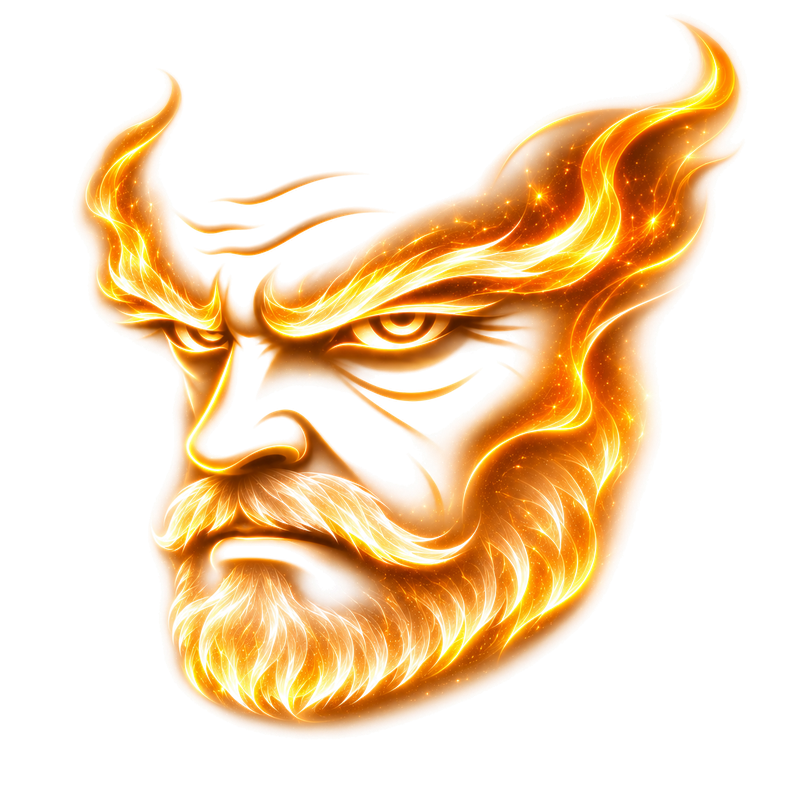
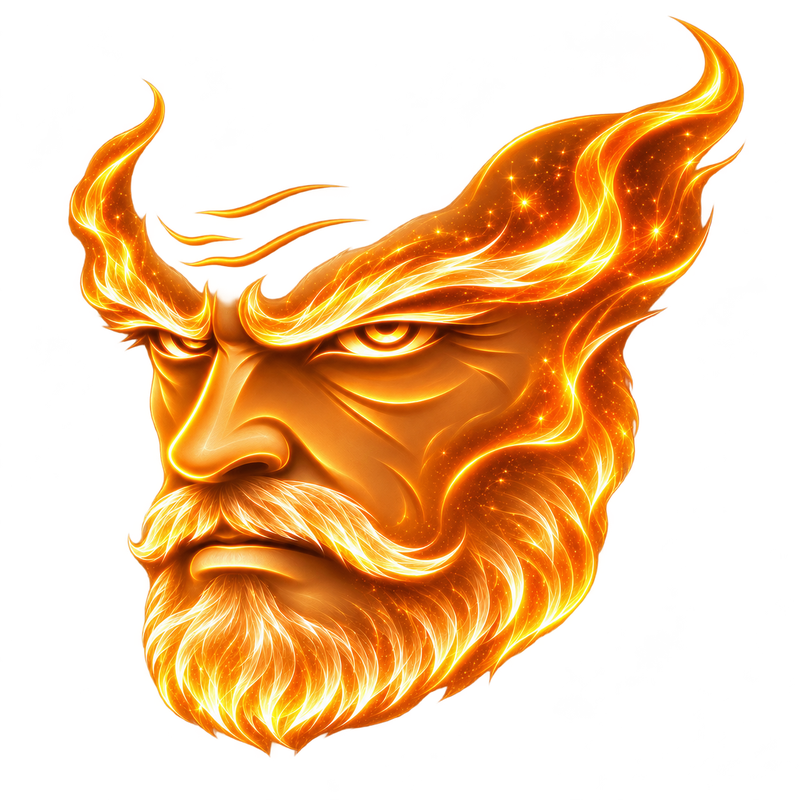
Energia das IAs no servidor, animação de ejetar e rostos novos
- Cada IA circula pelo rack como um ponto de energia na cor dela; ao
  escolher, a energia voa até a gaveta, que acende e desliza para fora.
- Ejetar: o rosto é puxado para fora da tela do celular (DESCONECTANDO), o
  celular volta ao branco de baixo para cima, a caixa do nome e os sistemas
  se apagam, a janela volta do celular e a energia entra de novo na gaveta,
  que se fecha. Só então o chip sai do leitor. Trocar de chip faz o mesmo.
- Novas imagens do Seu Adenor e da Nicole (rostos preenchidos).

Claude-Session: https://claude.ai/code/session_01QWHZ5vtpY8A6CS1fDh6wqf

diff --git a/js/holograma.js b/js/holograma.js
@@ -316,6 +316,84 @@ export async function criarServidor(canvasGL, canvas2D) {
     gavetas.push({ grupo, leds, faixa, y, fase: Math.random() * 10 });
   }
 
+  // --- as IAs em forma de energia, circulando por dentro do rack ---
+  const texturaPonto = (() => {
+    const c = document.createElement('canvas');
+    c.width = c.height = 64;
+    const g = c.getContext('2d');
+    const r = g.createRadialGradient(32, 32, 0, 32, 32, 32);
+    r.addColorStop(0, 'rgba(255,255,255,1)');
+    r.addColorStop(0.25, 'rgba(255,255,255,0.55)');
+    r.addColorStop(1, 'rgba(255,255,255,0)');
+    g.fillStyle = r;
+    g.fillRect(0, 0, 64, 64);
+    return new THREE.CanvasTexture(c);
+  })();
+  const gavetaDaIA = (i) => Math.min(UNIDADES - 1, 1 + i * 3);
+  const frenteDaGaveta = (i) => new THREE.Vector3(0, gavetas[gavetaDaIA(i)].y, D / 2 + 0.02);
+  const TAM_RASTRO = 60;
+  const energias = (window.IAS || []).map((ia, i) => {
+    const cor = new THREE.Color(ia.cor || '#3fd0ff');
+    const pts = [];
+    const n = 10;
+    for (let k = 0; k < n; k++) {
+      const a = (k / n) * Math.PI * 2 + i * 2.1;
+      pts.push(new THREE.Vector3(
+        Math.cos(a) * (0.34 + 0.1 * Math.sin(k * 2.3 + i * 1.3)),
+        Math.sin(a * 2 + i * 1.9) * (H / 2 - 0.32) * (0.55 + 0.45 * Math.cos(k * 1.7 + i)),
+        Math.sin(a) * 0.3 + 0.08 * Math.cos(k * 3 + i),
+      ));
+    }
+    const curva = new THREE.CatmullRomCurve3(pts, true, 'catmullrom', 0.5);
+    const cabeca = new THREE.Sprite(new THREE.SpriteMaterial({
+      map: texturaPonto, color: cor, transparent: true, blending: THREE.AdditiveBlending, depthWrite: false, depthTest: false,
+    }));
+    cabeca.scale.setScalar(0.2);
+    const geo = new THREE.BufferGeometry();
+    geo.setAttribute('position', new THREE.BufferAttribute(new Float32Array(TAM_RASTRO * 3), 3));
+    geo.setAttribute('color', new THREE.BufferAttribute(new Float32Array(TAM_RASTRO * 3), 3));
+    const rastro3d = new THREE.Points(geo, new THREE.PointsMaterial({
+      size: 0.17, map: texturaPonto, vertexColors: true, transparent: true,
+      blending: THREE.AdditiveBlending, depthWrite: false, depthTest: false, sizeAttenuation: true,
+    }));
+    rastro3d.frustumCulled = false;
+    rack.add(cabeca, rastro3d);
+    return { cor, curva, cabeca, rastro3d, historico: [], u: Math.random(), vel: 0.055 + 0.012 * i, alfa: 1, alfaAlvo: 1, voo: null };
+  });
+
+  // move cada energia: pelo caminho dela ou num voo até um ponto (ex.: a gaveta)
+  function moverEnergias(dt, seg) {
+    const agora = performance.now();
+    for (const e of energias) {
+      let p;
+      if (e.voo) {
+        const k = Math.min(1, (agora - e.voo.inicio) / e.voo.dur);
+        const q = k < 0.5 ? 2 * k * k : 1 - Math.pow(-2 * k + 2, 2) / 2;
+        p = e.voo.de.clone().lerp(e.voo.para, q);
+        p.y += Math.sin(k * Math.PI) * 0.25;
+        p.x += Math.sin(k * Math.PI * 2) * 0.12;
+      } else {
+        e.u = (e.u + e.vel * dt) % 1;
+        p = e.curva.getPointAt(e.u);
+      }
+      e.alfa += (e.alfaAlvo - e.alfa) * Math.min(1, dt * 5);
+      e.cabeca.position.copy(p);
+      e.cabeca.material.opacity = e.alfa;
+      e.cabeca.scale.setScalar(0.3 + 0.06 * Math.sin(seg * 6 + e.vel * 100));
+      e.historico.unshift(p.clone());
+      if (e.historico.length > TAM_RASTRO) e.historico.length = TAM_RASTRO;
+      const pos = e.rastro3d.geometry.attributes.position, cor = e.rastro3d.geometry.attributes.color;
+      for (let k = 0; k < TAM_RASTRO; k++) {
+        const h = e.historico[Math.min(k, e.historico.length - 1)];
+        pos.setXYZ(k, h.x, h.y, h.z);
+        const f = Math.pow(1 - k / TAM_RASTRO, 1.6) * e.alfa;
+        cor.setXYZ(k, e.cor.r * f, e.cor.g * f, e.cor.b * f);
+      }
+      pos.needsUpdate = true;
+      cor.needsUpdate = true;
+    }
+  }
+
   // --- base de projeção ---
   const base = new THREE.Group();
   const matBase = materialLinhas({ ...uniLinhas, uOpacidade: { value: 0.3 } });
@@ -455,7 +533,8 @@ export async function criarServidor(canvasGL, canvas2D) {
 
   let modo = 'vazio';
   let inicio = 0;
-  let escolhida = -1;
+  let escolhida = -1;      // gaveta da IA escolhida
+  let iaEscolhida = -1;    // índice da IA (e da energia dela)
   let aoTerminar = null;
   let anterior = performance.now();
 
@@ -472,6 +551,9 @@ export async function criarServidor(canvasGL, canvas2D) {
     });
   }
 
+  const FORA = 0.55;   // quanto a gaveta desliza para fora
+  const fechada = D / 2 - 0.04;
+
   function quadro(agora) {
     requestAnimationFrame(quadro);
     const dt = Math.min(0.05, (agora - anterior) / 1000);
@@ -486,7 +568,9 @@ export async function criarServidor(canvasGL, canvas2D) {
       grupo.rotation.set(0, 0.55 + Math.sin(seg * 0.5) * 0.35, 0);
       grupo.position.x = 0;
       uniLinhas.uAlfa.value = 1; uniMiolo.uAlfa.value = 0.8;
-      gavetas.forEach((g) => { g.grupo.position.z = D / 2 - 0.04; });
+      gavetas.forEach((g) => { g.grupo.position.z = fechada; });
+      energias.forEach((e) => { e.alfaAlvo = 1; });
+      moverEnergias(dt, seg);
       luzes(seg, 0);
       base.rotation.y = seg * 0.3;
       comp.render();
@@ -494,27 +578,33 @@ export async function criarServidor(canvasGL, canvas2D) {
     }
 
     if (modo === 'transformando') {
-      // 1) o rack vira de frente e a gaveta da IA acende e desliza para fora
+      // 1) o rack vira de frente; a energia da IA voa até a gaveta dela e entra
       const vira = suave(0, 1100, t);
       grupo.rotation.set(0, (0.55 + Math.sin(t / 600) * 0.2) * (1 - vira), 0);
-      const tremor = suave(900, 1300, t) * (1 - suave(1700, 2100, t));
+      const tremor = suave(1000, 1400, t) * (1 - suave(1800, 2200, t));
       grupo.position.x = (Math.random() - 0.5) * 0.06 * tremor;
       const g = gavetas[escolhida];
-      g.grupo.position.z = D / 2 - 0.04 + 0.55 * suave(500, 1400, t);
-      // 2) o rack se apaga devagar enquanto o rosto aparece
-      const apaga = 1 - 0.8 * suave(1500, 2300, t) - 0.2 * suave(2900, 3500, t);
-      luzes(seg, 0.25 + 0.5 * suave(300, 900, t) + 0.25 * Math.sin(seg * 18) * suave(900, 1400, t), Math.max(0, (apaga - 0.2) / 0.8));
+      const apaga = 1 - 0.8 * suave(1600, 2400, t) - 0.2 * suave(2900, 3500, t);
+      energias.forEach((e, i) => {
+        if (i === iaEscolhida) e.alfaAlvo = t < 700 ? 1 : 0;
+        else e.alfaAlvo = 0.7 * Math.max(0, (apaga - 0.2) / 0.8);
+      });
+      moverEnergias(dt, seg);
+      // 2) a gaveta acende e desliza para fora
+      g.grupo.position.z = fechada + FORA * suave(800, 1500, t);
+      luzes(seg, 0.2 + 0.55 * suave(600, 1000, t) + 0.25 * Math.sin(seg * 18) * suave(1000, 1500, t), Math.max(0, (apaga - 0.2) / 0.8));
+      // 3) o rack se apaga devagar enquanto o rosto aparece
       uniLinhas.uAlfa.value = apaga; uniMiolo.uAlfa.value = 0.8 * apaga;
       base.rotation.y = seg * 0.3;
       comp.render();
 
-      // 3) fumaça de energia saindo da gaveta e se juntando no rosto
+      // 4) fumaça de energia saindo da gaveta e se juntando no rosto
       const origem = telaDe(g.grupo, new THREE.Vector3(0, 0, 0.05));
-      const emitir = suave(800, 1200, t) * (1 - suave(2700, 3300, t));
+      const emitir = suave(1000, 1300, t) * (1 - suave(2700, 3300, t));
       const juntar = suave(1800, 3000, t);
       fumaca(seg, dt, origem, emitir, juntar);
 
-      // 4) o rosto se materializa no meio da fumaça, com a borda acesa
+      // 5) o rosto se materializa no meio da fumaça, com a borda acesa
       const r = -0.05 + 1.25 * suave(1700, 3600, t);
       if (r > 0) materializar(Math.min(1.2, r), 1 - suave(3400, 3900, t));
       if (t > 4000) {
@@ -527,9 +617,44 @@ export async function criarServidor(canvasGL, canvas2D) {
 
     if (modo === 'rosto') {
       uniLinhas.uAlfa.value = 0; uniMiolo.uAlfa.value = 0;
+      energias.forEach((e) => { e.alfaAlvo = 0; });
+      moverEnergias(dt, seg);
       comp.render();
       fumaca(seg, dt, [L / 2, A / 2], 0, 0);
       desenharRostoPronto(1);
+      return;
+    }
+
+    if (modo === 'voltando') {
+      // a IA volta do celular: o rack reaparece, a energia entra na gaveta e ela se fecha
+      grupo.rotation.set(0, 0, 0);
+      grupo.position.x = 0;
+      const aparece = suave(0, 500, t);
+      uniLinhas.uAlfa.value = aparece; uniMiolo.uAlfa.value = 0.8 * aparece;
+      const g = gavetas[escolhida];
+      g.grupo.position.z = fechada + FORA * (1 - suave(1000, 1600, t));
+      energias.forEach((e, i) => {
+        if (i === iaEscolhida) e.alfaAlvo = t < 1000 ? 1 : 0;
+        else e.alfaAlvo = suave(500, 1400, t);
+      });
+      moverEnergias(dt, seg);
+      luzes(seg, 0.75 * (1 - suave(1200, 1700, t)), aparece);
+      base.rotation.y = seg * 0.3;
+      comp.render();
+      fumaca(seg, dt, [L / 2, A / 2], 0, 0);
+      if (t > 1800) {
+        modo = 'mascara';
+        inicio = performance.now();
+        escolhida = -1;
+        if (iaEscolhida >= 0 && energias[iaEscolhida]) {
+          const e = energias[iaEscolhida];
+          e.voo = null;
+          e.historico = [];
+          e.alfa = 0;
+        }
+        iaEscolhida = -1;
+        if (aoTerminar) { aoTerminar(); aoTerminar = null; }
+      }
     }
   }
   requestAnimationFrame(quadro);
@@ -541,8 +666,25 @@ export async function criarServidor(canvasGL, canvas2D) {
       modo = 'mascara';
       inicio = performance.now();
       escolhida = -1;
+      iaEscolhida = -1;
+      energias.forEach((e) => { e.voo = null; });
       particulas = [];
       rctx.clearRect(0, 0, L, A);
+    },
+    // a IA sai do celular e volta para o servidor
+    recolher() {
+      return new Promise((ok) => {
+        if (escolhida < 0) { ok(); return; }
+        modo = 'voltando';
+        inicio = performance.now();
+        aoTerminar = ok;
+        const e = energias[iaEscolhida];
+        if (e) {
+          e.historico = [];
+          e.alfa = 1;
+          e.voo = { de: new THREE.Vector3(1.7, 1.5, 1.4), para: frenteDaGaveta(iaEscolhida).add(new THREE.Vector3(0, 0, FORA)), inicio: performance.now() + 150, dur: 900 };
+        }
+      });
     },
     async preparar(ia) {
       corRgb = hexParaRgb(ia.cor || '#3fd0ff');
@@ -550,7 +692,8 @@ export async function criarServidor(canvasGL, canvas2D) {
       const lista = window.IAS || [];
       const i = Math.max(0, lista.indexOf(ia));
       // espalha as IAs pelas gavetas do rack
-      escolhida = Math.min(UNIDADES - 1, 1 + i * 3);
+      iaEscolhida = i;
+      escolhida = gavetaDaIA(i);
       rosto = null;
       if (ia.rosto) {
         try { rosto = await fotoHolograma(ia.rosto, L, A); } catch (e) { console.warn('Não consegui abrir o rosto de', ia.nome, e); }
@@ -573,6 +716,8 @@ export async function criarServidor(canvasGL, canvas2D) {
         modo = 'transformando';
         inicio = performance.now();
         aoTerminar = ok;
+        const e = energias[iaEscolhida];
+        if (e) e.voo = { de: e.cabeca.position.clone(), para: frenteDaGaveta(iaEscolhida), inicio: performance.now(), dur: 750 };
       });
     },
   };
@@ -785,10 +930,10 @@ export async function criarCelular(canvas) {
     ctx.restore();
   }
 
-  function desenharRosto(ctx, img, alfa, revela, escala, brilhoVarredura) {
+  function desenharRosto(ctx, img, alfa, revela, escala, brilhoVarredura, dy = 0) {
     if (!img) return;
     const w = TW * 0.8 * escala, h = w * (img.height / img.width);
-    const x = (TW - w) / 2, y = TH * 0.33 - h / 2;
+    const x = (TW - w) / 2, y = TH * 0.33 - h / 2 + dy;
     ctx.save();
     ctx.beginPath();
     ctx.rect(0, 0, TW, y + h * revela);
@@ -873,6 +1018,27 @@ export async function criarCelular(canvas) {
         ctx.textAlign = 'center';
         ctx.fillText('› ' + atual + (k >= 1 ? '  ok' : '...'), TW / 2, TH * 0.81);
       }
+    } else if (estadoTela.modo === 'saindo') {
+      // a IA sai do celular: o rosto é puxado para cima e se desfaz, o anel esvazia
+      const sobe = suave(0.15, 1.3, t);
+      const ondula = Math.sin(agora / 40) * 6 * sobe;
+      desenharRosto(ctx, estadoTela.rosto, (1 - suave(0.4, 1.3, t)) * (0.85 + 0.15 * Math.random()),
+        1 - suave(0.2, 1.25, t), 1 + 0.12 * sobe, 1, -TH * 0.22 * sobe + ondula);
+      const k = 1 - suave(0.2, 1.6, t);
+      const cx = TW / 2, cy = TH * 0.71, r = 58;
+      ctx.lineWidth = 6;
+      ctx.strokeStyle = tom(0.18);
+      ctx.beginPath(); ctx.arc(cx, cy, r, 0, Math.PI * 2); ctx.stroke();
+      ctx.strokeStyle = claro(1);
+      ctx.shadowColor = cor; ctx.shadowBlur = 16;
+      ctx.beginPath(); ctx.arc(cx, cy, r, -Math.PI / 2, -Math.PI / 2 + Math.PI * 2 * k); ctx.stroke();
+      ctx.shadowBlur = 0;
+      texto(ctx, Math.floor(k * 100) + '%', cx, cy + 12, 38, claro(1), 700, 0);
+      texto(ctx, t < 1.6 ? 'DESCONECTANDO ' + estadoTela.nome : 'IA DESCONECTADA', cx, TH * 0.61, 30, claro(0.9));
+      ctx.font = '500 19px "Barlow Condensed", sans-serif';
+      ctx.fillStyle = claro(0.7);
+      ctx.textAlign = 'center';
+      ctx.fillText(t < 0.9 ? '› salvando contexto...' : t < 1.6 ? '› liberando memória...' : '› pronto', TW / 2, TH * 0.81);
     } else if (estadoTela.modo === 'pronto') {
       desenharRosto(ctx, estadoTela.rosto, 0.92 + 0.08 * Math.random(), 1, 1, 0);
       texto(ctx, estadoTela.nome, TW / 2, TH * 0.66, 64, claro(1), 700, 6);
@@ -918,7 +1084,9 @@ export async function criarCelular(canvas) {
     if (troca) {
       const k = Math.min(1, (performance.now() - troca.inicio) / troca.duracao);
       const e = k * k * (3 - 2 * k);
-      uniLinhas.uCorte.value = ALT / 2 + 0.05 - e * (ALT + 0.4);
+      uniLinhas.uCorte.value = troca.volta
+        ? -ALT / 2 - 0.3 + e * (ALT + 0.6)        // volta ao branco, de baixo para cima
+        : ALT / 2 + 0.05 - e * (ALT + 0.4);
       if (k >= 1) troca = null;
     }
     const trocou = uniLinhas.uCorte.value < 0;
@@ -948,6 +1116,14 @@ export async function criarCelular(canvas) {
         if (v === versao) estadoTela = { ...estadoTela, modo: 'pronto' };
         ok();
       }, 3100));
+    },
+    // a IA sai do celular; resolve quando terminar
+    desinstalar() {
+      const v = ++versao;
+      if (estadoTela.modo === 'repouso') return Promise.resolve();
+      estadoTela = { ...estadoTela, modo: 'saindo', inicio: performance.now() };
+      setTimeout(() => { if (v === versao) troca = { inicio: performance.now(), duracao: 1300, volta: true }; }, 450);
+      return new Promise((ok) => setTimeout(ok, 1900));
     },
     repouso() {
       versao++;

diff --git a/js/app.js b/js/app.js
@@ -17,6 +17,7 @@ import { abrirCofre, lerPrompt } from './cofre.js';
   let carregada = null;     // IA que está no leitor
   let chipNoLeitor = null;  // { el, dx, dy1, dy2, r }
   let sequencia = 0;        // aumenta a cada chip; cancela animações antigas
+  let vooJanela = null;     // de onde a janela voou até o celular (para voltar ao ejetar)
   const cachePrompts = {};
   const chavePronta = abrirCofre();
 
@@ -125,6 +126,8 @@ import { abrirCofre, lerPrompt } from './cofre.js';
     $('verPrompt').hidden = true;
     document.body.classList.add('ocupado');
     if (chipNoLeitor) {
+      await tirarIADoCelular(minha);
+      if (minha !== sequencia) return;
       await animarSaida();
       telaEmEspera();
       if (minha !== sequencia) return;
@@ -136,10 +139,57 @@ import { abrirCofre, lerPrompt } from './cofre.js';
     await carregarNaTela(ia, minha);
   }
 
+  // A IA sai do celular e volta para o servidor (só quando ela terminou de carregar).
+  async function tirarIADoCelular(minha) {
+    if (!carregada || !tela.classList.contains('final') || !rosto || !corpo) return;
+    const ok = () => minha === sequencia;
+    $('dica').textContent = 'Removendo ' + carregada.etiqueta + '...';
+    tela.classList.remove('final');
+
+    // sistemas e ligações saem; a caixa do nome pisca e se apaga
+    $('sistemas').querySelectorAll('li').forEach((li, i) => li.animate(
+      [{ opacity: 1, transform: 'none' }, { opacity: 0, transform: 'translateX(30px)' }],
+      { duration: 350, delay: i * 70, fill: 'forwards' }
+    ));
+    tela.classList.remove('ciano');
+    const placa = $('placaNome');
+    $('placaSubTexto').textContent = 'DISCONNECTING';
+    placa.animate([{ filter: 'brightness(1)' }, { filter: 'brightness(2.2)', transform: 'translateX(4px)' }, { filter: 'brightness(1)' }], { duration: 500 });
+
+    const saida = corpo.desinstalar();
+    await esperar(600); if (!ok()) return;
+    placa.classList.remove('nova');
+    $('placaTexto').textContent = '';
+    $('placaSubTexto').textContent = '';
+    $('placaSubBarra').getAnimations().forEach((a) => a.cancel());
+    $('nomeFantasma').textContent = '';
+    $('atualizando').classList.remove('visivel');
+
+    // a janela volta do celular para o lugar dela, mostrando o servidor
+    await esperar(300); if (!ok()) return;
+    janela.getAnimations().forEach((a) => a.cancel());
+    $('aguardando').hidden = true;
+    $('porcento').textContent = '0%';
+    $('cargaBarra').style.width = '0%';
+    const volta = rosto.recolher();
+    if (vooJanela) {
+      janela.animate(
+        [{ transform: `translate(${vooJanela.dx}px, ${vooJanela.dy}px) scale(.12)`, opacity: 0 },
+         { transform: `translate(${vooJanela.dx * 0.3}px, ${vooJanela.dy * 0.3}px) scale(.5)`, opacity: 0.9, offset: 0.5 },
+         { transform: 'translate(0,0) scale(1)', opacity: 1 }],
+        { duration: 750, easing: 'cubic-bezier(.3,0,.2,1)' }
+      );
+    }
+    await Promise.all([saida, volta]);
+  }
+
   async function ejetar() {
     const minha = ++sequencia;
     fecharProtocolo();
     $('verPrompt').hidden = true;
+    document.body.classList.add('ocupado');
+    await tirarIADoCelular(minha);
+    if (minha !== sequencia) return;
     carregada = null;
     $('leitorLed').classList.remove('aceso', 'lendo');
     await animarSaida();
@@ -203,6 +253,7 @@ import { abrirCofre, lerPrompt } from './cofre.js';
     const escala = monitorArea.clientWidth / 1600;
     const dx = (cel.left + cel.width * 0.5 - (jr.left + jr.width / 2)) / escala;
     const dy = (cel.top + cel.height * 0.36 - (jr.top + jr.height / 2)) / escala;
+    vooJanela = { dx, dy };
     janela.animate(
       [
         { transform: 'translate(0,0) scale(1)', opacity: 1 },
